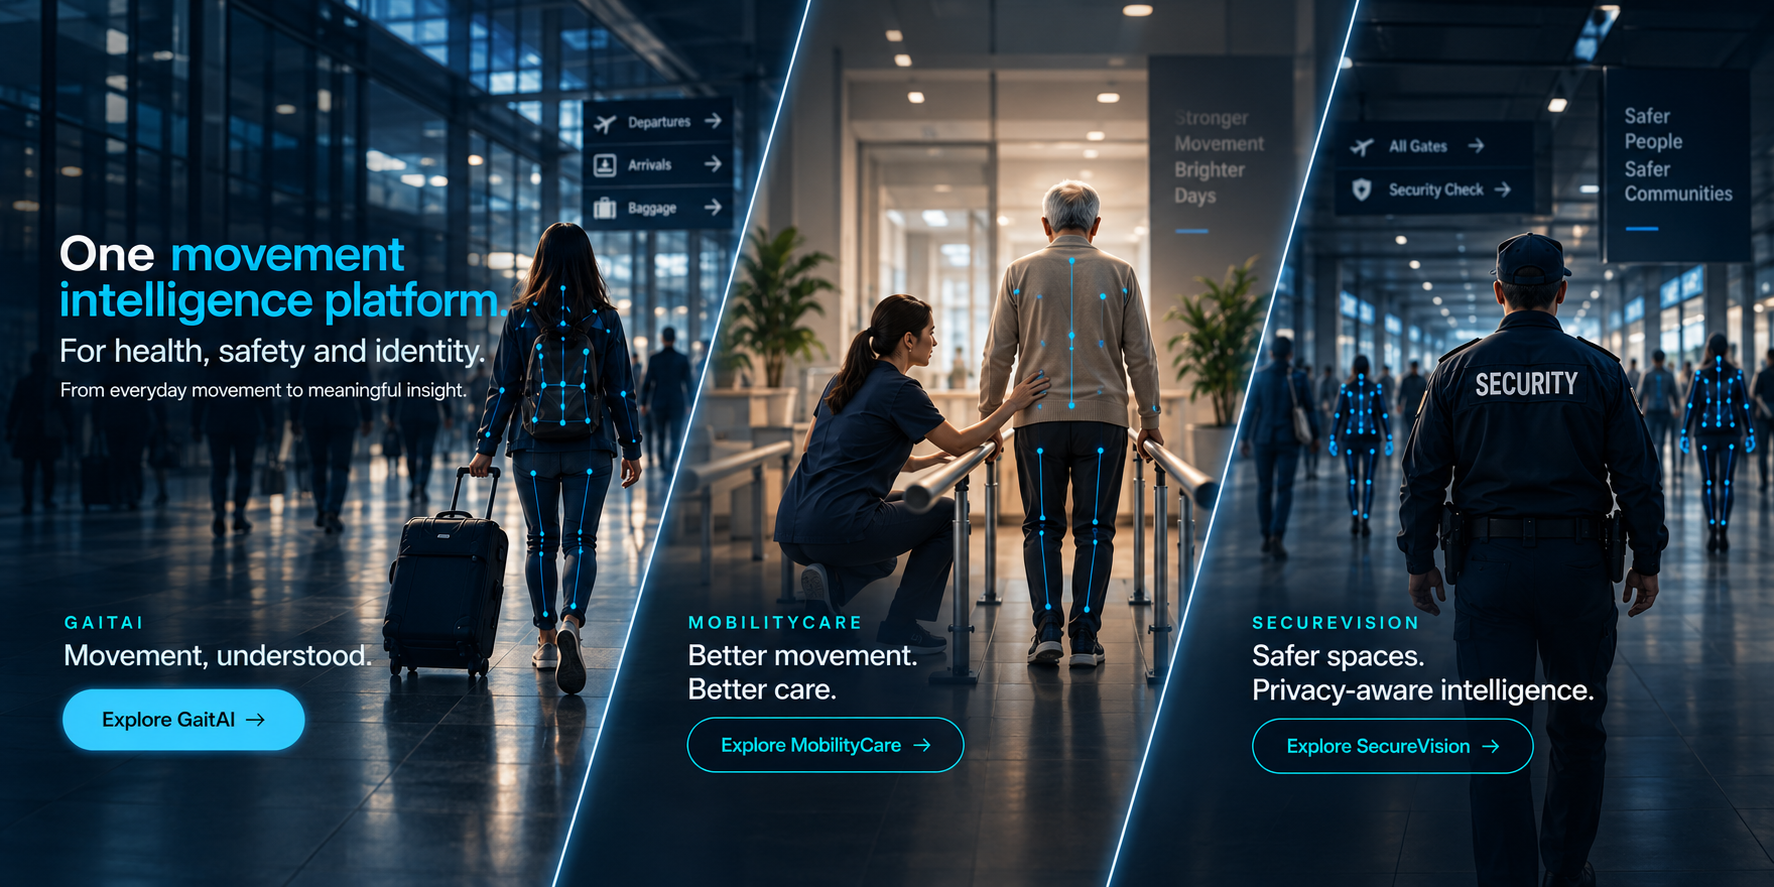
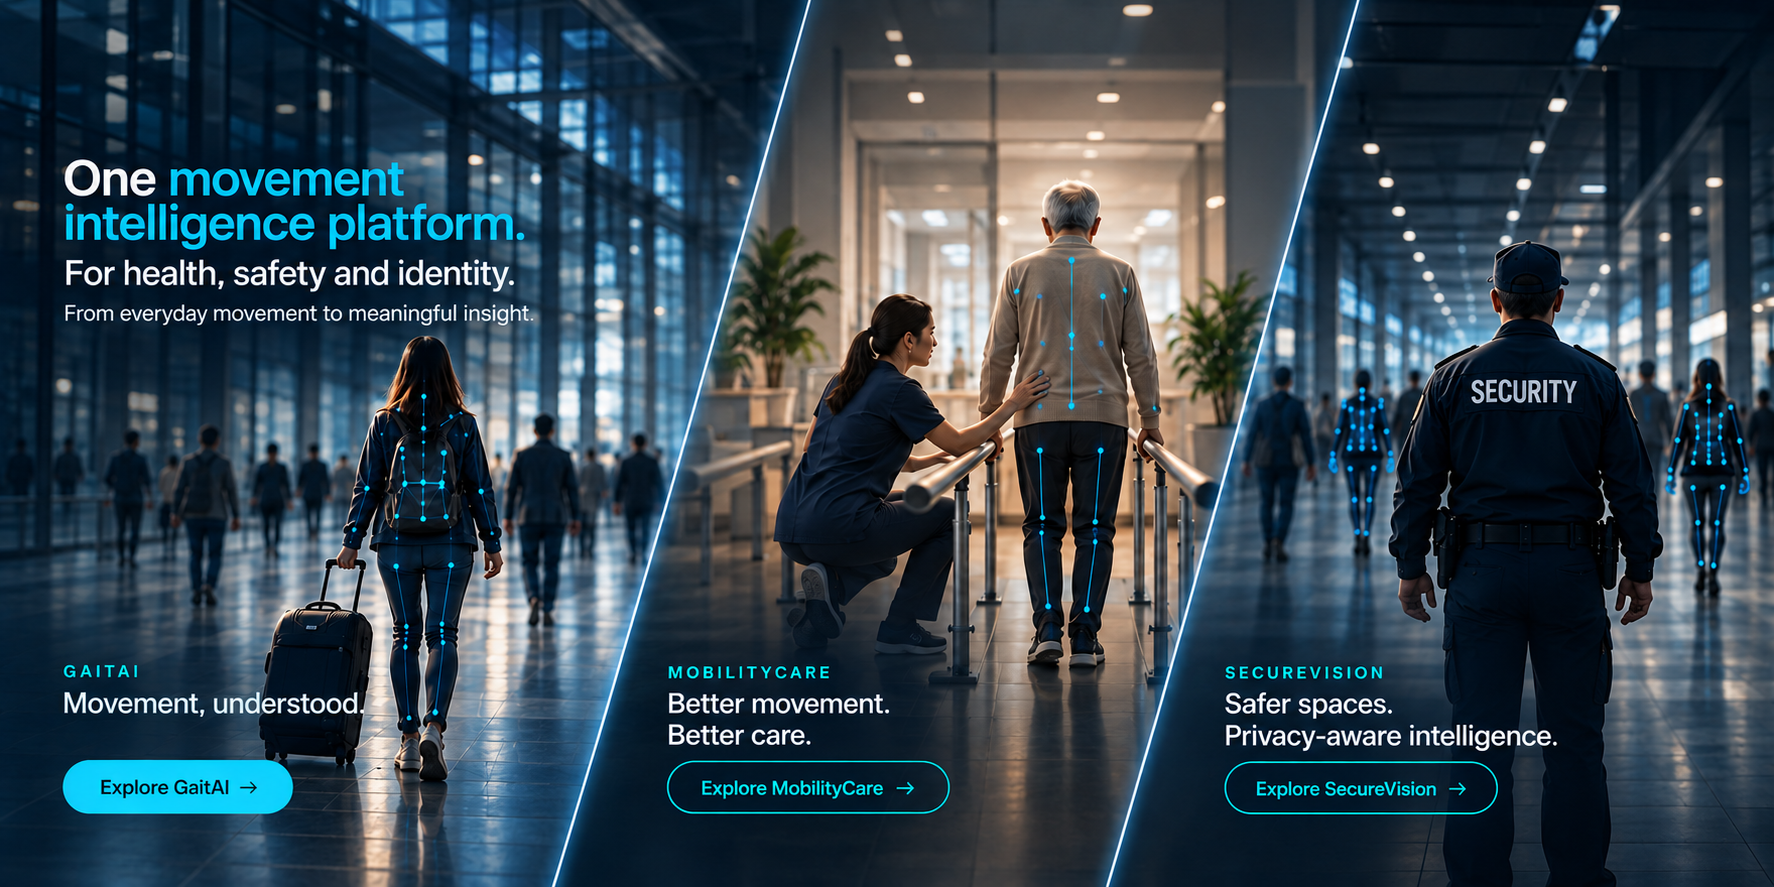
Homepage hero: the updated dark artwork
Replaces the dark hero file with the revised gaitai_hero_dark_main.png
from Downloads, byte for byte (PNG, 1774x887 - same dimensions, so the
registry, preload and frame sizing are unchanged). Light is untouched:
same file, same overlays, same contrast band.

In this version the three pills sit about 70px lower in the picture and
the headline about 75px higher, so the dark CTA overlays are re-measured
(GaitAI 63,760-293,814; MobilityCare 667,761-949,813; SecureVision
1225,762-1498,814) and the launcher guard's copy-width margin is widened
a notch for the longer SecureVision line.

Verified on an isolated production build served locally: overlays cover
the pills with <=4.4px slack at 2560/1920/1440/1280/1024/768/430/375,
all six click-tests land, focus rings, dark<->light toggle swaps files
without a reload (CLS 0.002); lower row and all three buttons above the
fold at 1366x768/1440x900/1536x864/1920x1080 with zero launcher/copy
intersections; the headline keeps >=30px (of 887) of headroom at the
40vw floor. check:media and lint clean.

diff --git a/src/components/sections/hero.module.css b/src/components/sections/hero.module.css
@@ -21,8 +21,8 @@
    Whenever the frame is shorter than the picture, the picture keeps its
    ratio and the frame crops the slack cover-fashion, biased towards the top
    (72/28): the ceiling glass gives way first, the floor under the pills
-   last. Measured on the light file, the tighter of the two, the 40vw floor
-   keeps 41px (of 887) above the headline and 15px under the pills.
+   last. At the 40vw floor the cut keeps 31px (of 887) above the dark
+   headline, 41px above the light one, and 15–23px under the pills.
 
    Below 1024px the ratio would make the hero a strip (768 → 384px), so the
    canvas keeps a real height instead and pans sideways — the same treatment
@@ -126,27 +126,27 @@
 /* ── The three calls to action ──────────────────────────────────────────────
    Each anchor is a transparent pill over the painted one. Its geometry is a
    percentage of the canvas, measured from the artwork (px of 1774×887, plus
-   ~3px of margin): the two themes place the pills a different height up the
-   picture, so light carries its own values. The box is the pill plus a hair
+   ~3px of margin): the two themes place the pills a few pixels apart, so
+   light carries its own values. The box is the pill plus a hair
    of margin, so the focus ring reads as the button's own outline lit up.
 
-     dark   GaitAI 63,689–305,750  MobilityCare 687,717–964,772  SecureVision 1252,718–1534,774
+     dark   GaitAI 63,760–293,814  MobilityCare 667,761–949,813  SecureVision 1225,762–1498,814
      light  GaitAI 63,769–289,822  MobilityCare 607,770–883,822  SecureVision 1190,770–1473,822 */
 .ctas {
   --cta-g-left: 3.38%;
-  --cta-g-top: 77.3%;
-  --cta-g-width: 13.85%;
-  --cta-g-height: 7.6%;
+  --cta-g-top: 85.35%;
+  --cta-g-width: 13.3%;
+  --cta-g-height: 6.76%;
 
-  --cta-m-left: 38.55%;
-  --cta-m-top: 80.5%;
-  --cta-m-width: 15.95%;
-  --cta-m-height: 6.9%;
+  --cta-m-left: 37.43%;
+  --cta-m-top: 85.46%;
+  --cta-m-width: 16.23%;
+  --cta-m-height: 6.54%;
 
-  --cta-s-left: 70.4%;
-  --cta-s-top: 80.6%;
-  --cta-s-width: 16.25%;
-  --cta-s-height: 7%;
+  --cta-s-left: 68.88%;
+  --cta-s-top: 85.57%;
+  --cta-s-width: 15.73%;
+  --cta-s-height: 6.54%;
 
   position: absolute;
   inset: 0;

diff --git a/src/components/sections/HeroLauncherGuard.tsx b/src/components/sections/HeroLauncherGuard.tsx
@@ -40,8 +40,8 @@ const MARGIN = 8;
 /* The copy above the pill, as multiples of the pill's own box: the eyebrow
    sits about 1.8–1.9 pill-heights above the pill, and the longest line
    ("Privacy-aware intelligence.") ends about 1.2 pill-widths from its left
-   edge, in both themes. */
-const COPY_WIDTH_FACTOR = 1.3;
+   edge, in both themes. Both factors carry a margin. */
+const COPY_WIDTH_FACTOR = 1.4;
 const COPY_ABOVE_FACTOR = 2.1;
 
 function launcherOffset(viewportWidth: number) {
